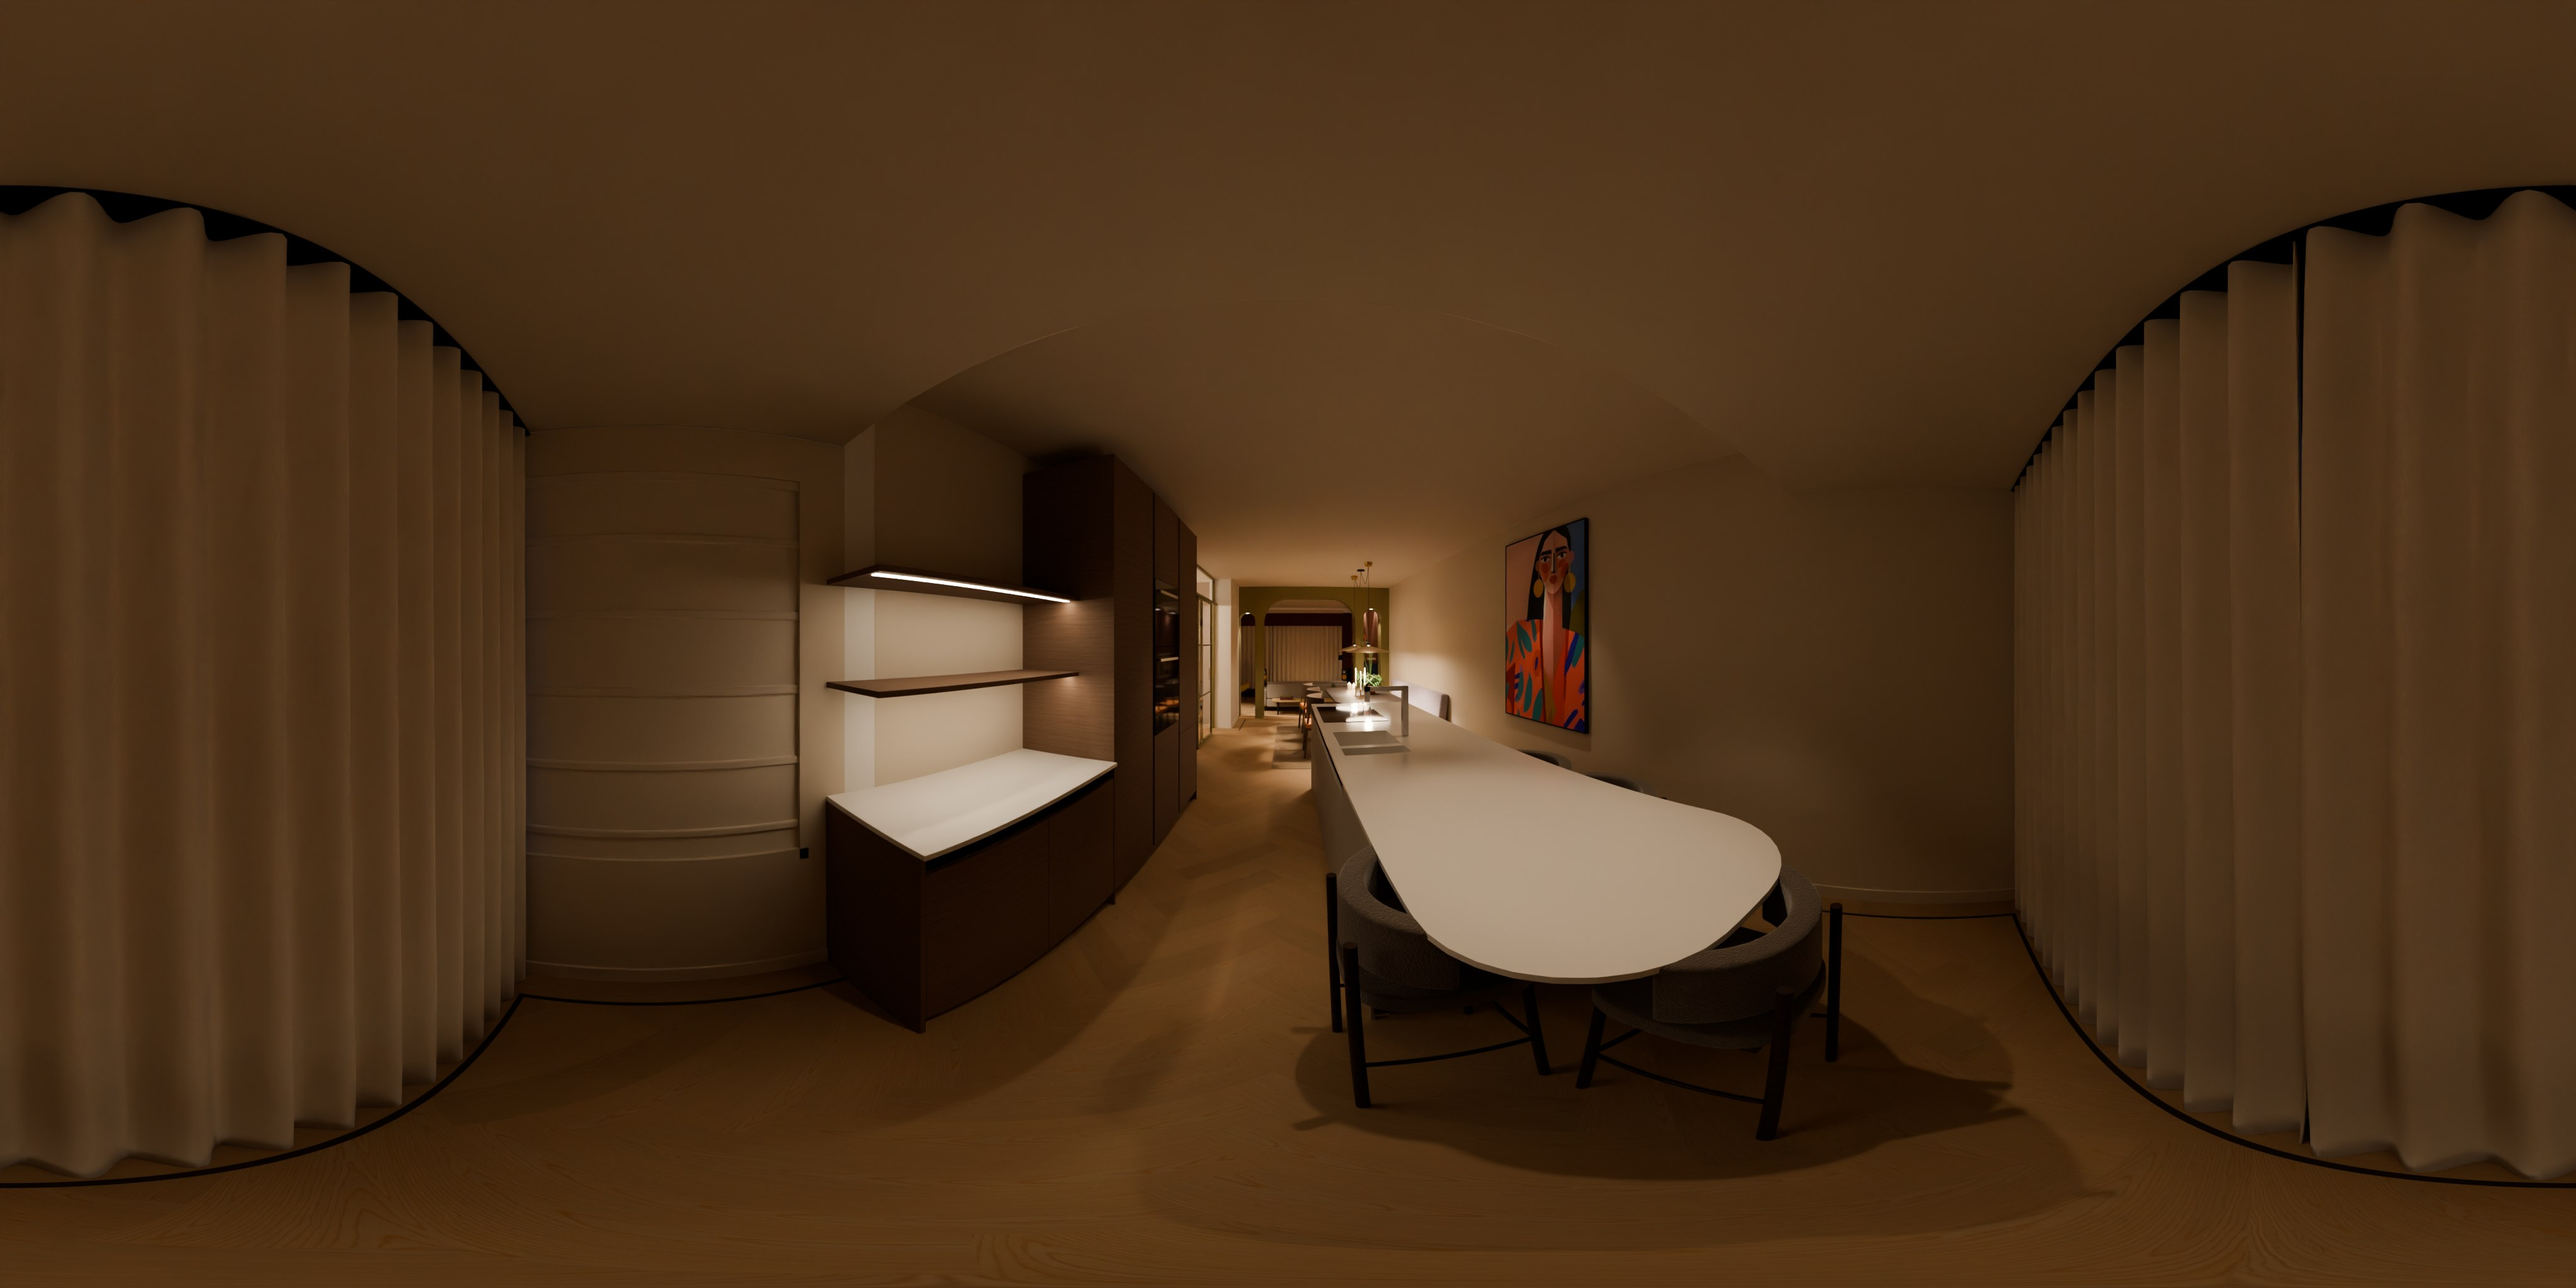
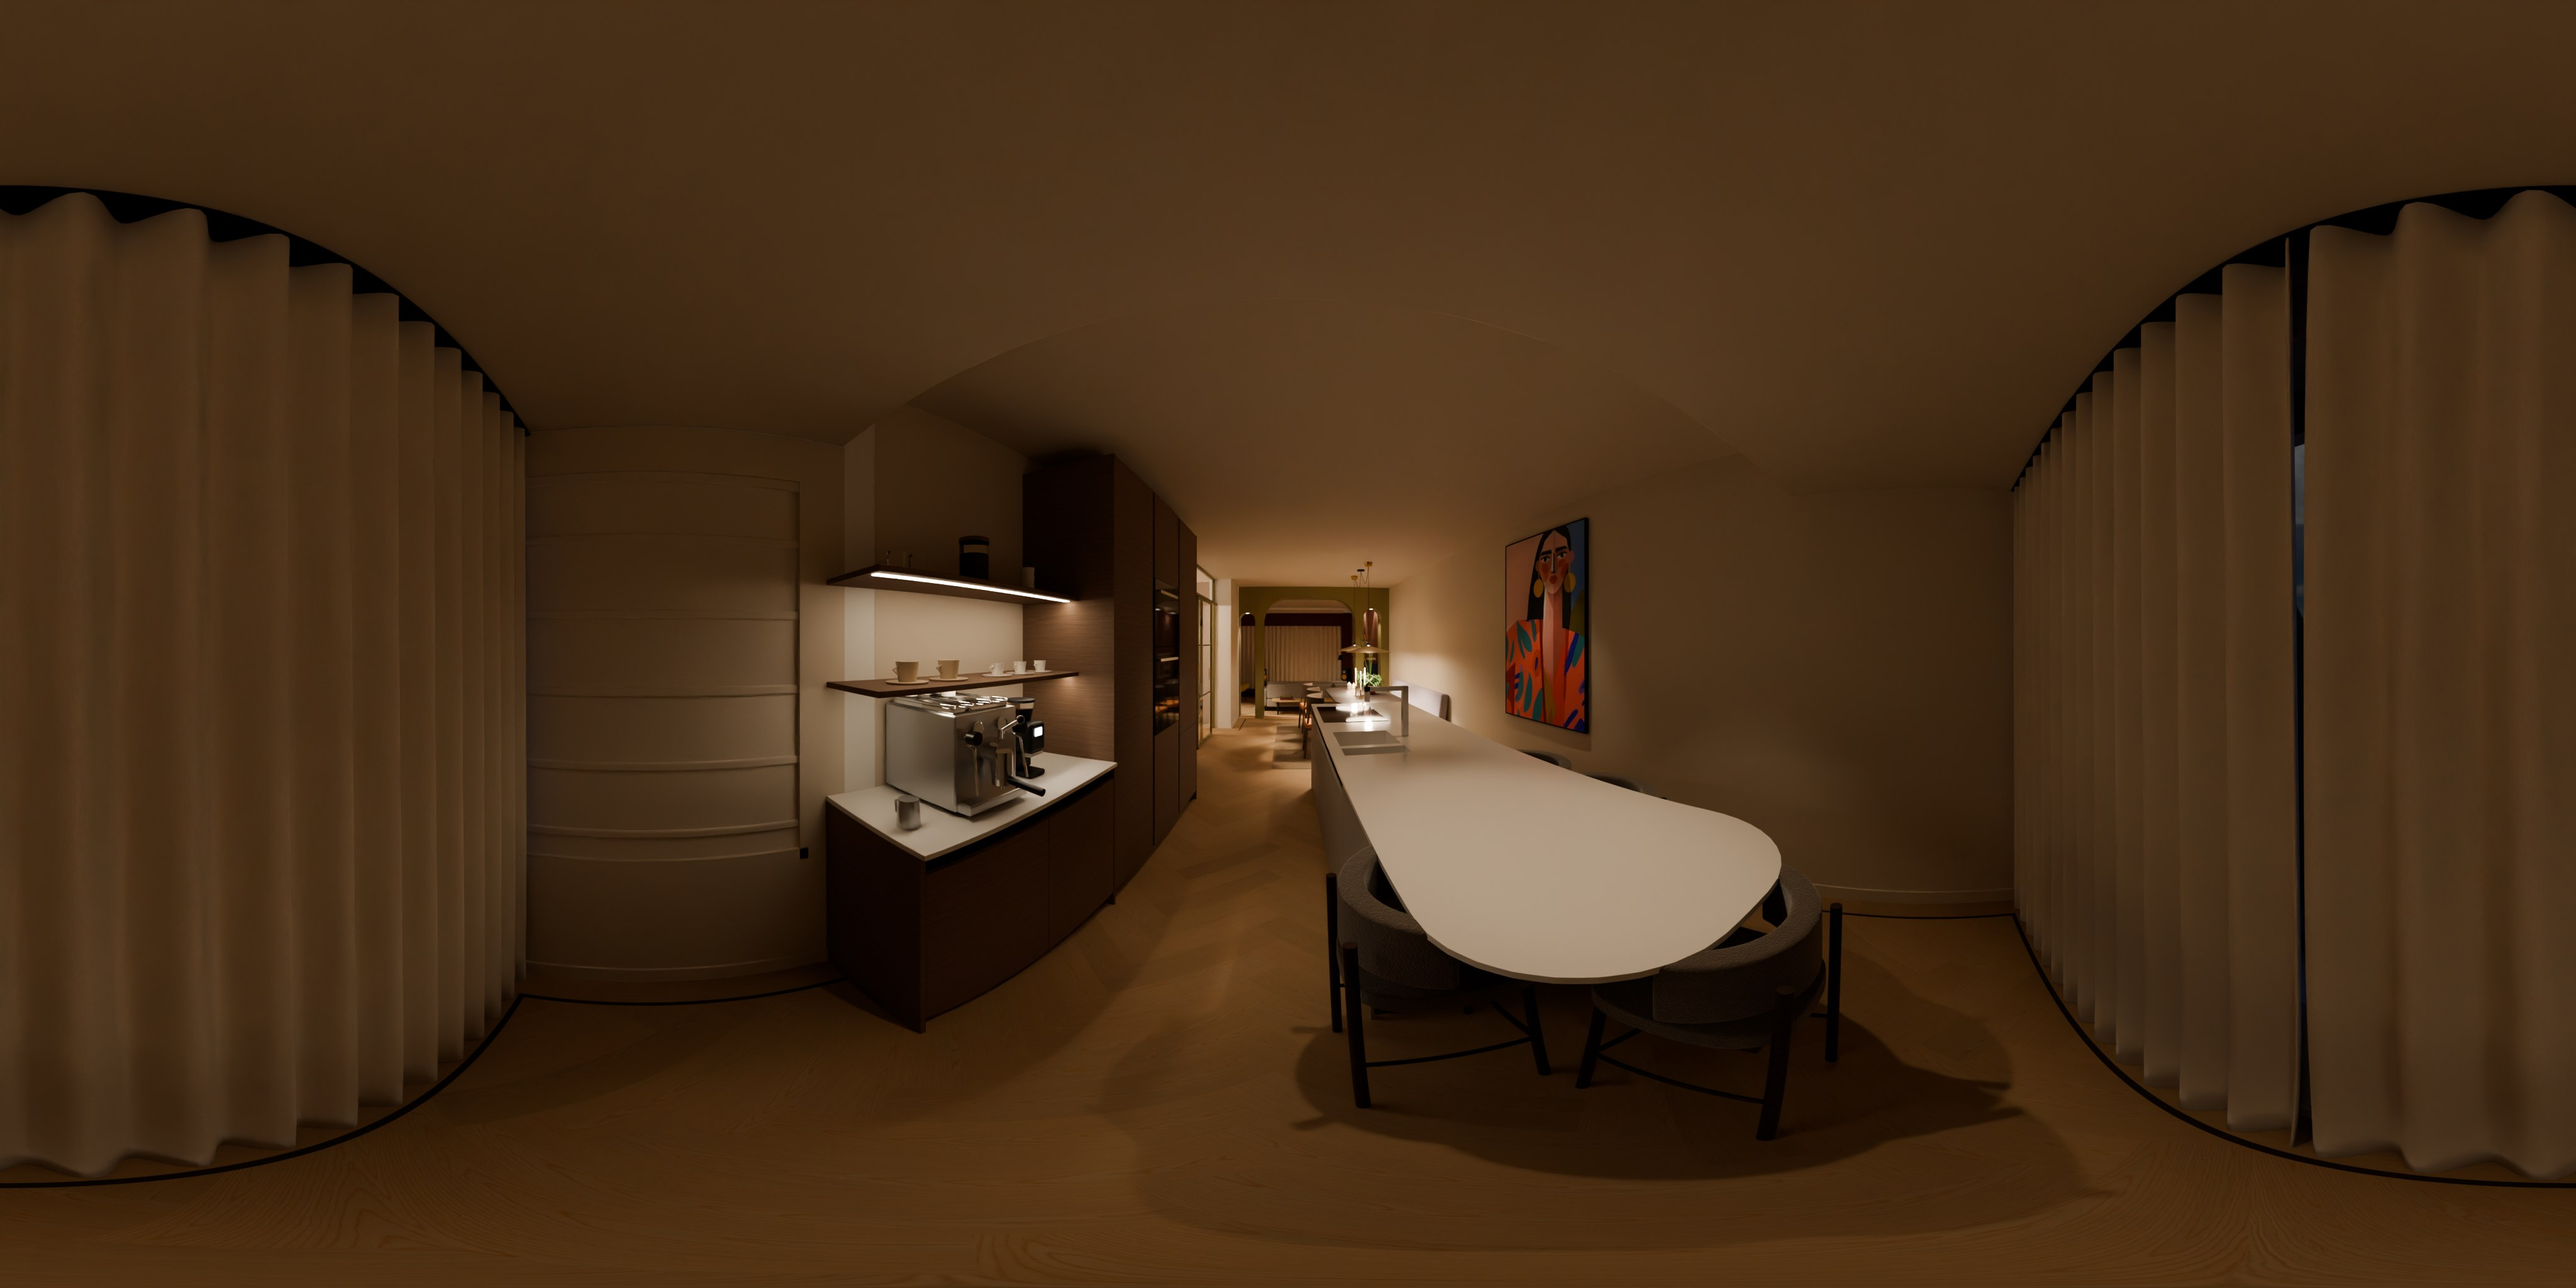
Koffienis: Profitec Pro, Eureka Mignon en kopjes op de planken

diff --git a/index.html b/index.html
@@ -163,7 +163,7 @@ const LINKS = {
 };
 const VOLGORDE = ['woonkamer', 'vleugel', 'eetzone', 'keuken', 'erker', 'eiland', 'speelkamer', 'hal', 'slaapkamer', 'slaapkamerbed', 'badkamer',
                   'overloop', 'gang', 'portaal', 'ouders', 'oudersraam', 'kinderkamer', 'kinderbedstede', 'meisjeskamer', 'meisjesleeshoek', 'inloopkast'];
-const HEEFT_FOTO = new Set(['badkamer-avond', 'badkamer', 'eetzone-avond', 'eetzone', 'eiland-avond', 'eiland', 'erker-avond', 'erker', 'gang-avond', 'gang', 'hal-avond', 'hal', 'inloopkast-avond', 'inloopkast', 'keuken-avond', 'keuken', 'kinderbedstede-avond', 'kinderbedstede', 'kinderkamer-avond', 'meisjeskamer-avond', 'meisjeskamer', 'meisjesleeshoek-avond', 'meisjesleeshoek', 'ouders-avond', 'ouders', 'oudersraam-avond', 'oudersraam', 'overloop-avond', 'overloop', 'portaal-avond', 'portaal', 'slaapkamer-avond', 'slaapkamer', 'slaapkamerbed-avond', 'slaapkamerbed', 'speelkamer-avond', 'speelkamer', 'vleugel-avond', 'vleugel', 'woonkamer-avond', 'woonkamer']);   // AI-versies die er zijn
+const HEEFT_FOTO = new Set(['badkamer-avond', 'badkamer', 'eetzone-avond', 'eetzone', 'eiland-avond', 'eiland', 'erker-avond', 'erker', 'gang-avond', 'gang', 'hal-avond', 'hal', 'inloopkast-avond', 'inloopkast', 'keuken-avond', 'keuken', 'kinderbedstede-avond', 'kinderbedstede', 'kinderkamer-avond', 'kinderkamer', 'meisjeskamer-avond', 'meisjeskamer', 'meisjesleeshoek-avond', 'meisjesleeshoek', 'ouders-avond', 'ouders', 'oudersraam-avond', 'oudersraam', 'overloop-avond', 'overloop', 'portaal-avond', 'portaal', 'slaapkamer-avond', 'slaapkamer', 'slaapkamerbed-avond', 'slaapkamerbed', 'speelkamer-avond', 'speelkamer', 'vleugel-avond', 'vleugel', 'woonkamer-avond', 'woonkamer']);   // AI-versies die er zijn
 const HEEFT_PANO = new Set(['badkamer-avond', 'badkamer', 'eetzone-avond', 'eetzone', 'eiland-avond', 'eiland', 'erker-avond', 'erker', 'gang-avond', 'gang', 'hal-avond', 'hal', 'inloopkast-avond', 'inloopkast', 'keuken-avond', 'keuken', 'kinderbedstede-avond', 'kinderbedstede', 'kinderkamer-avond', 'kinderkamer', 'meisjeskamer-avond', 'meisjeskamer', 'meisjesleeshoek-avond', 'meisjesleeshoek', 'ouders-avond', 'ouders', 'oudersraam-avond', 'oudersraam', 'overloop-avond', 'overloop', 'portaal-avond', 'portaal', 'slaapkamer-avond', 'slaapkamer', 'slaapkamerbed-avond', 'slaapkamerbed', 'speelkamer-avond', 'speelkamer', 'vleugel-avond', 'vleugel', 'woonkamer-avond', 'woonkamer']);   // 3D-renders die er zijn (publiceer_site.sh); standplaatsen zonder render vallen weg
 for (const id of Object.keys(SPOTS)) if (!HEEFT_PANO.has(id)) { delete SPOTS[id]; delete LINKS[id]; }
 VOLGORDE.splice(0, VOLGORDE.length, ...VOLGORDE.filter(id => SPOTS[id]));
